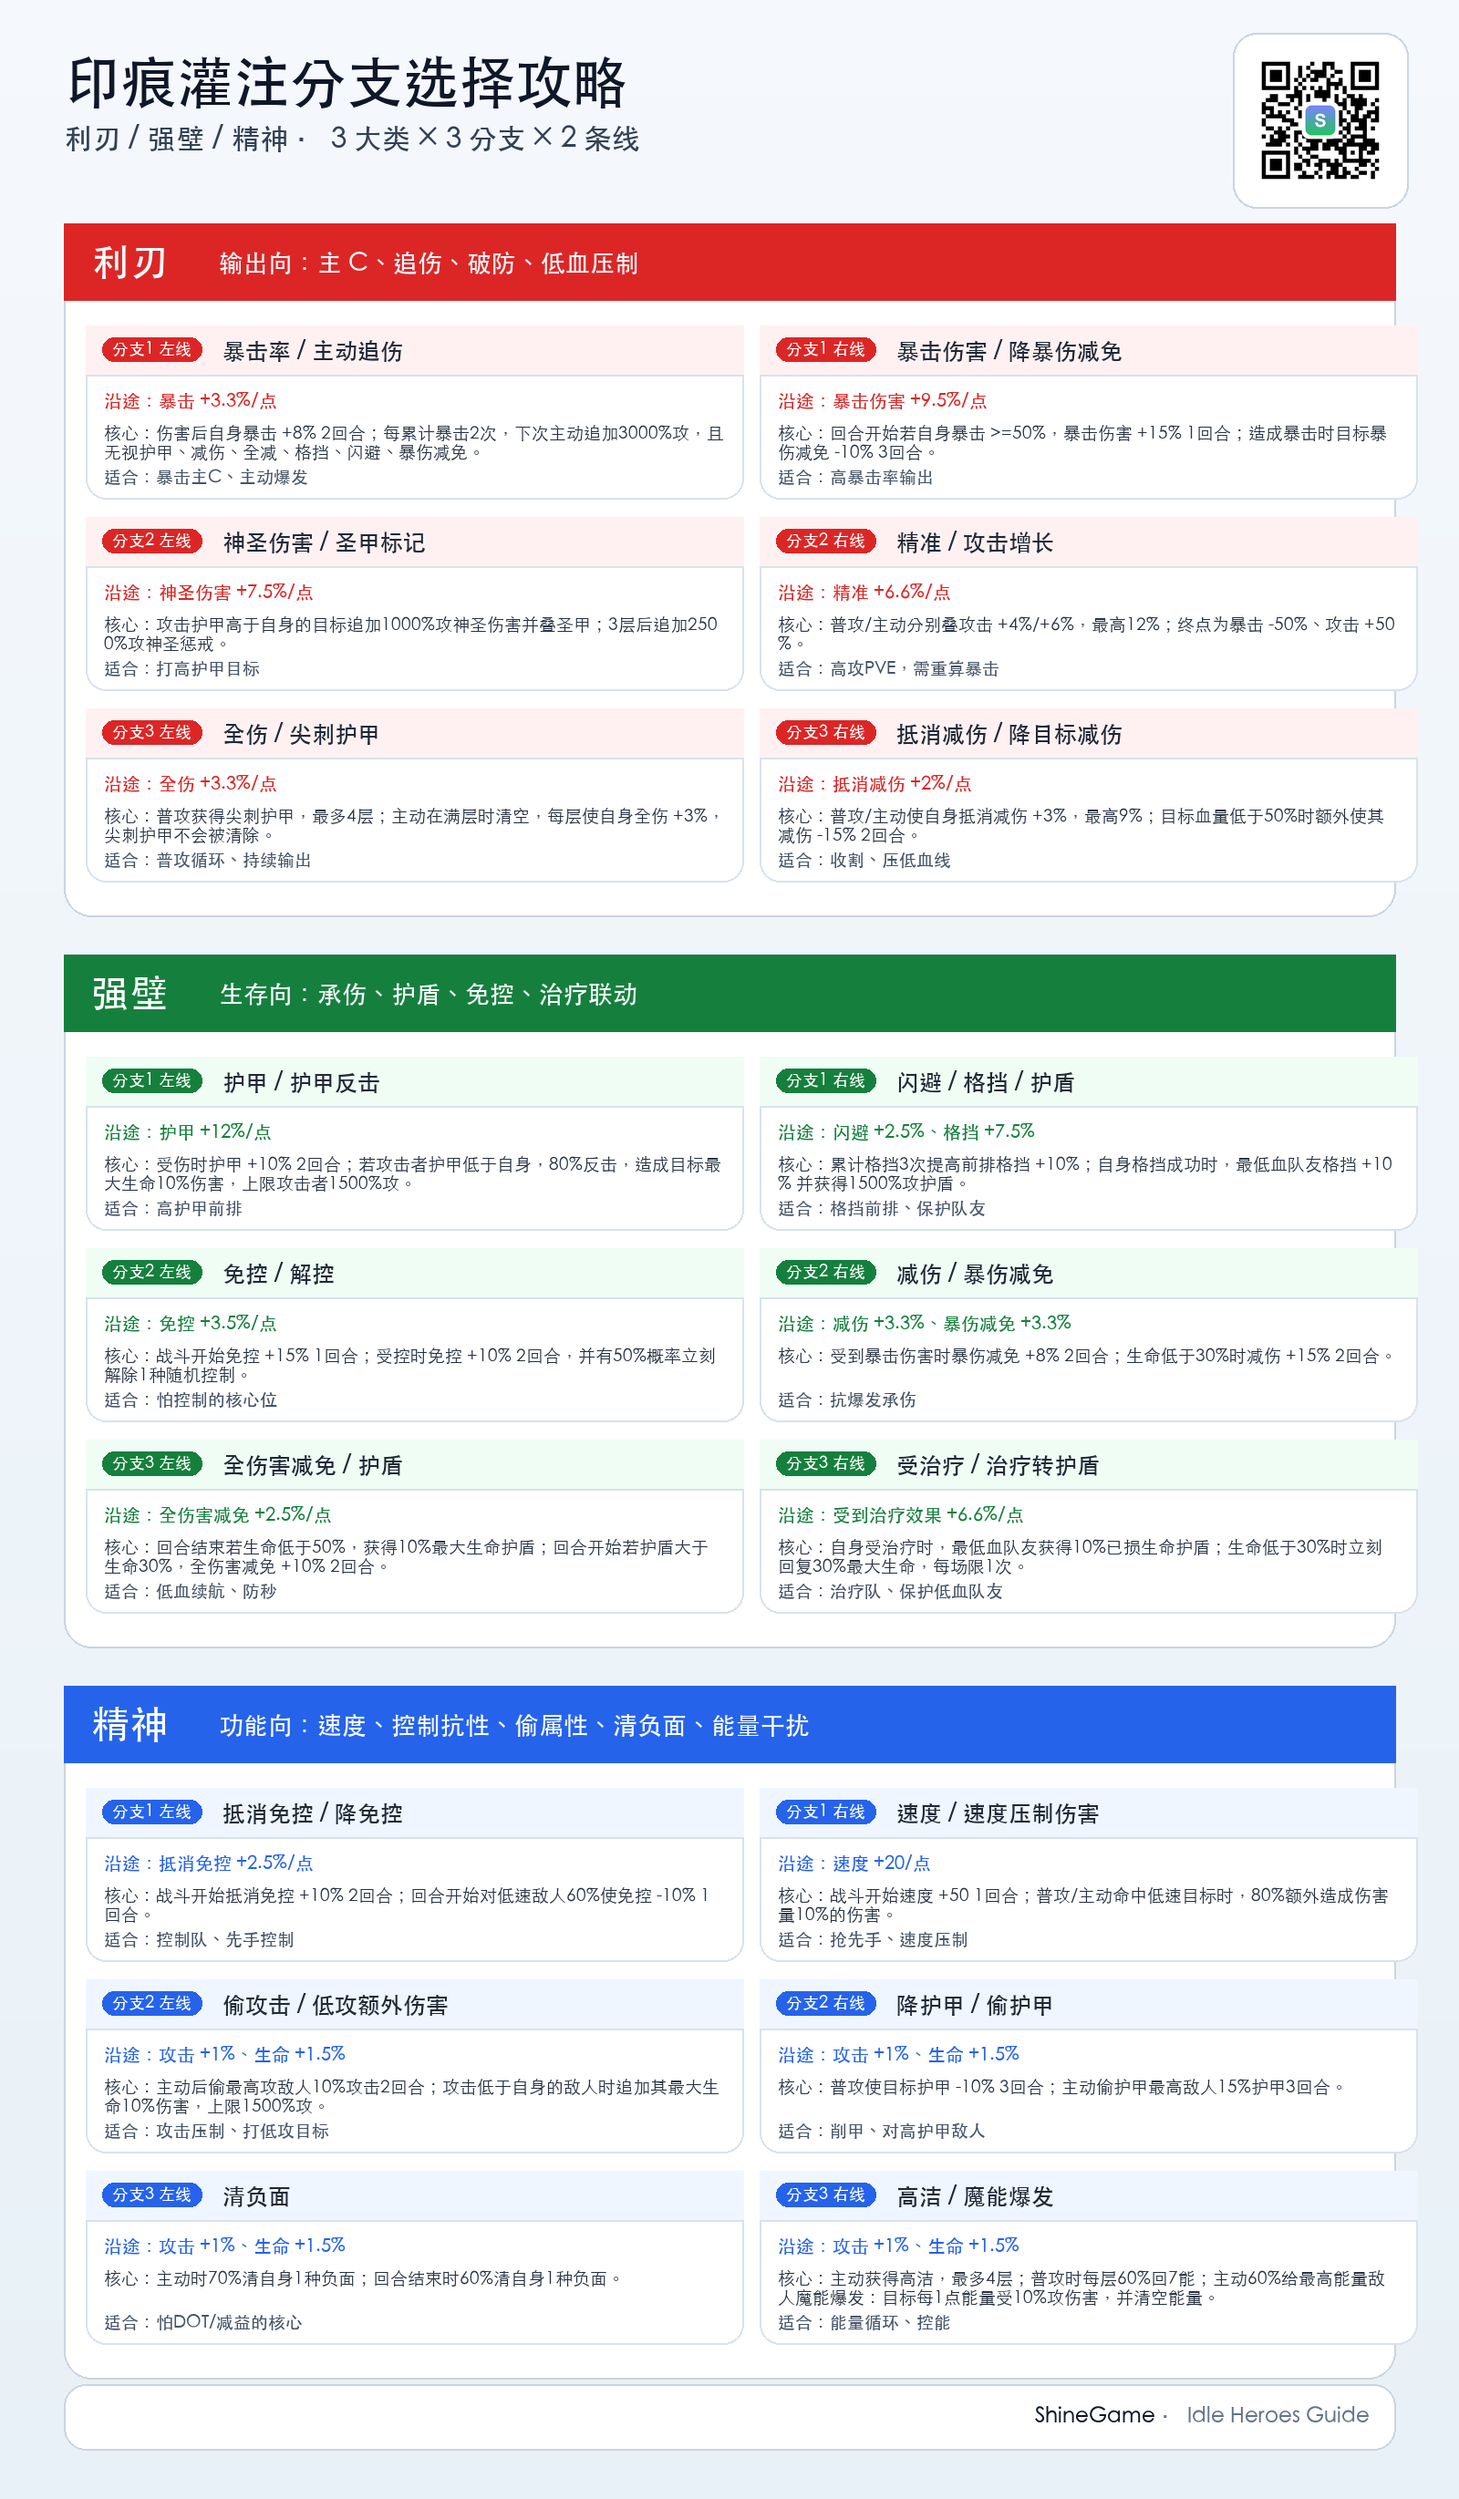
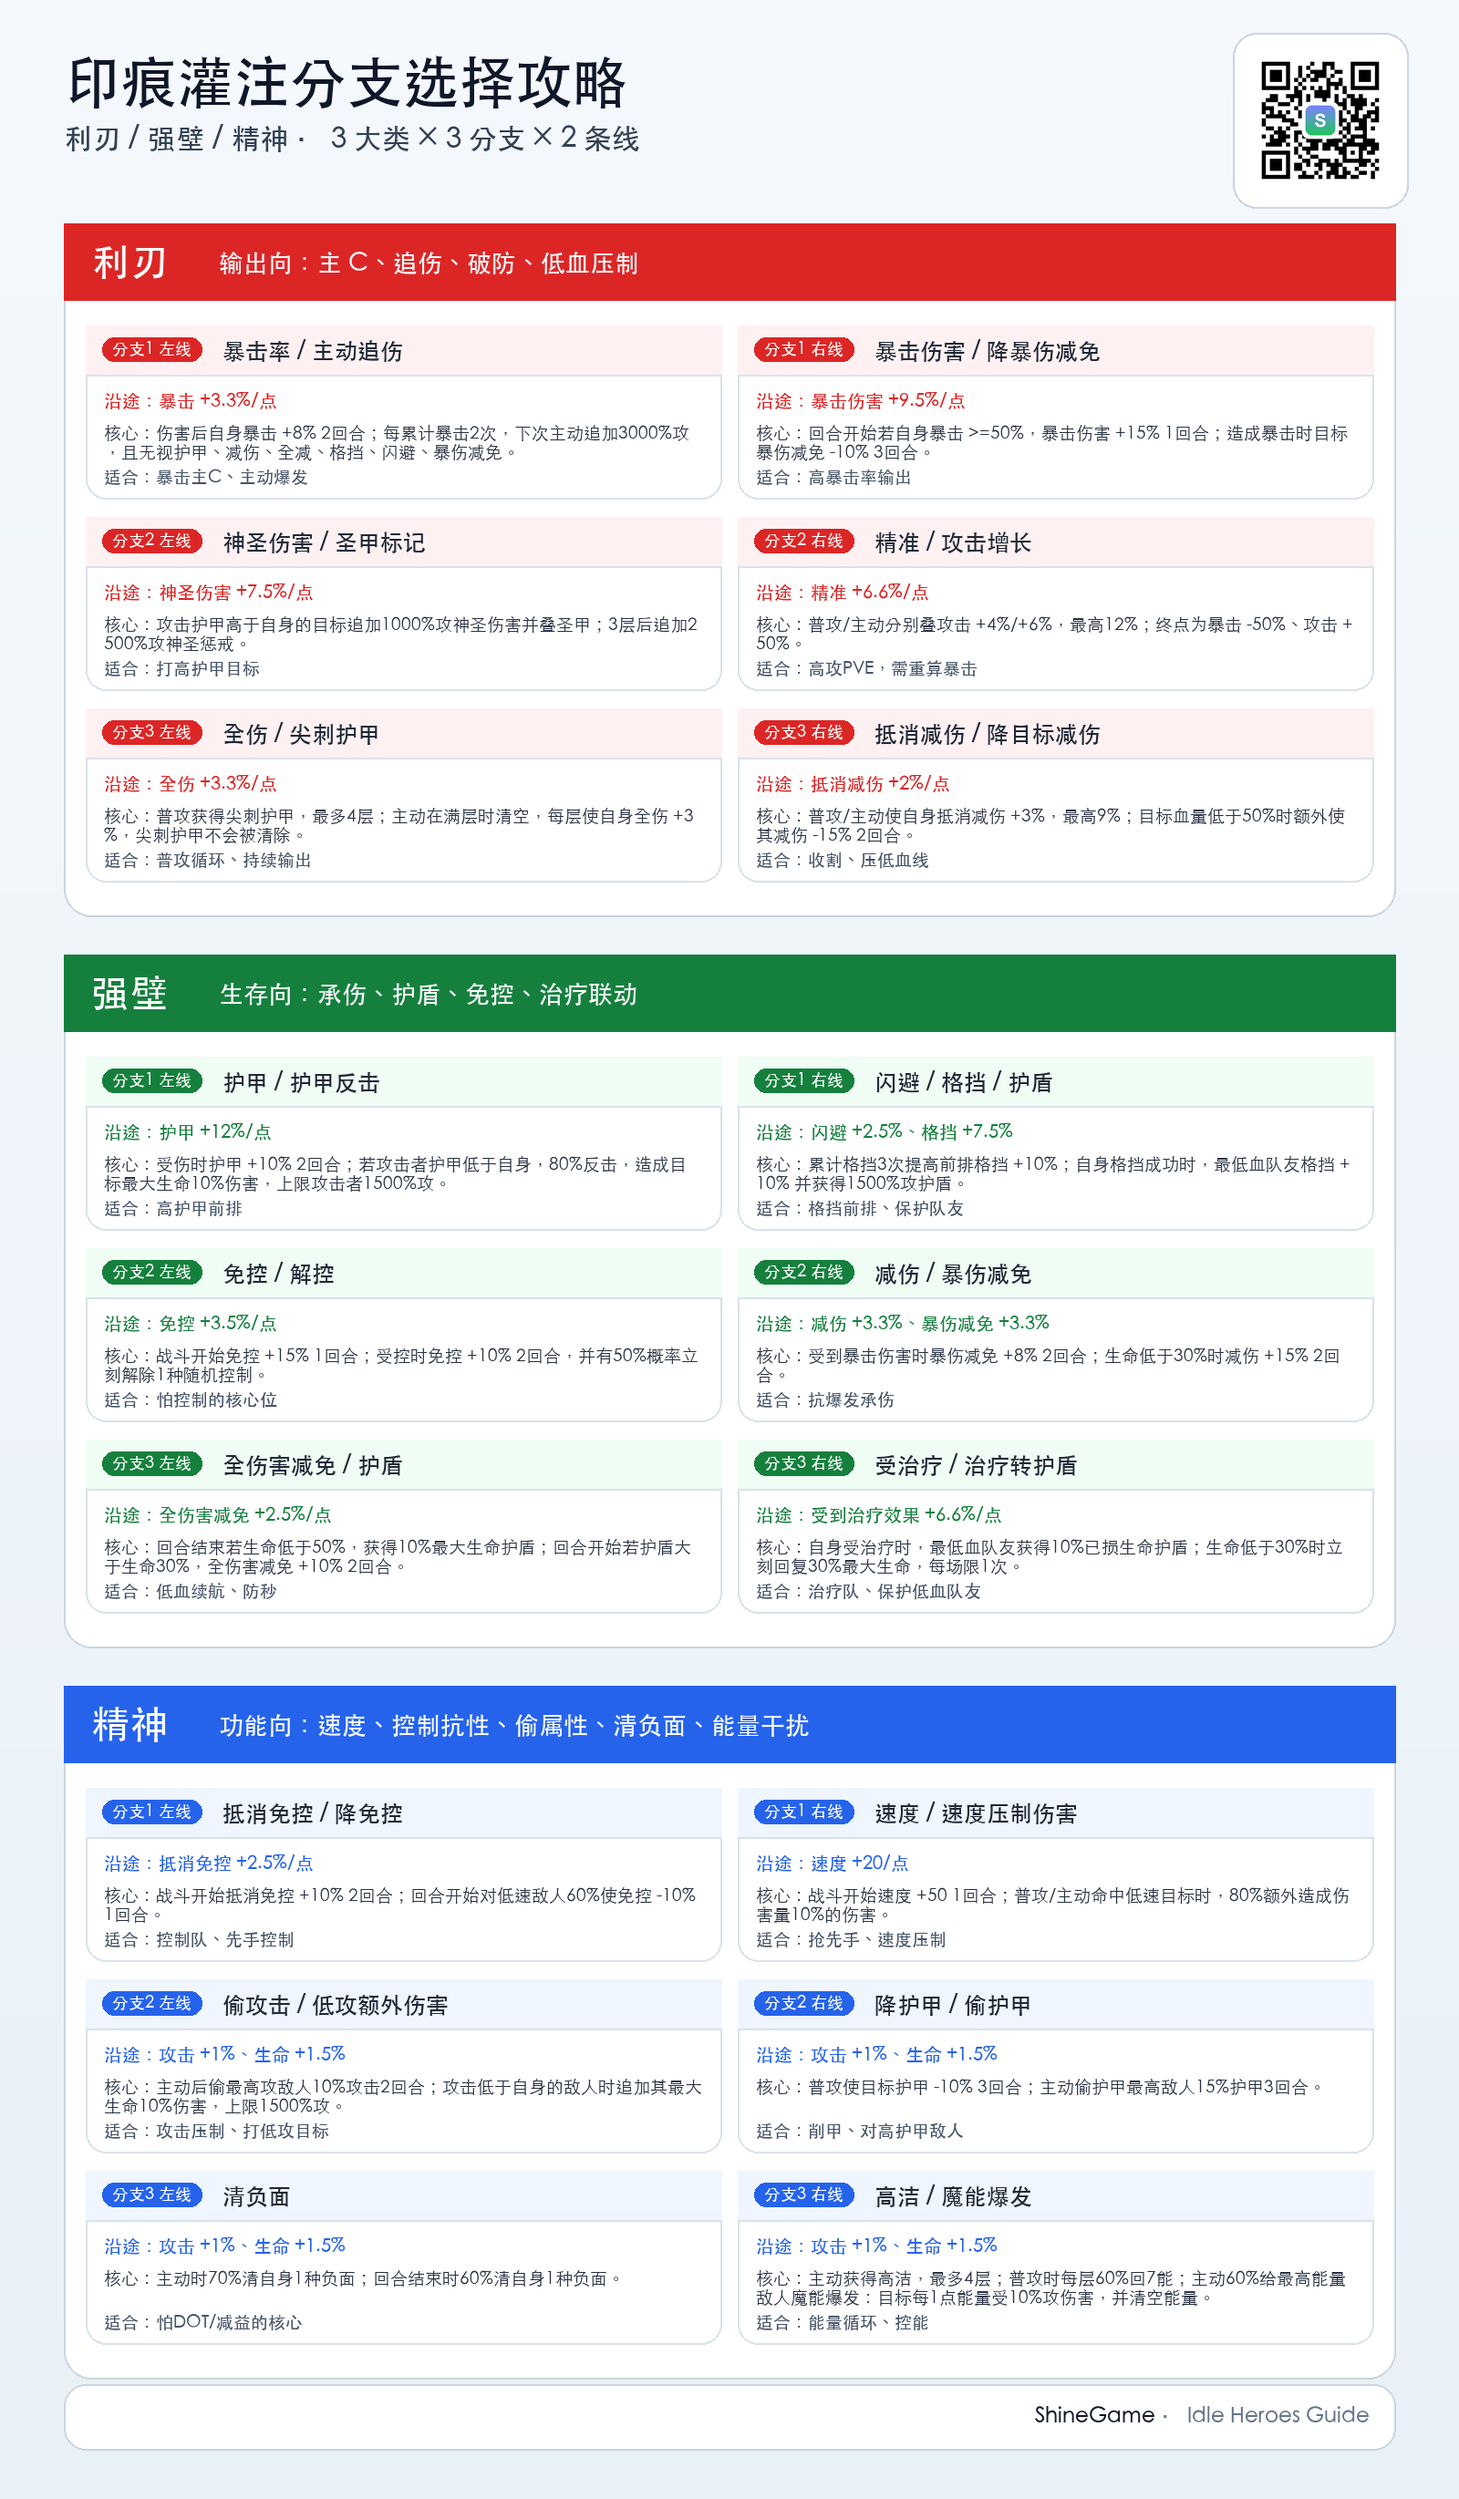
Tighten guide image layouts

diff --git a/scripts/generate-imprint-branch-guide.py b/scripts/generate-imprint-branch-guide.py
@@ -270,7 +270,8 @@ def main():
     draw.text((margin, 136), "利刃 / 强壁 / 精神 · 3 大类 × 3 分支 × 2 条线", font=font(31, True), fill="#334155")
     y = header_h
     card_gap = 18
-    card_w = (w - margin * 2 - card_gap) // 2
+    section_pad = 24
+    card_w = (w - margin * 2 - section_pad * 2 - card_gap) // 2
     card_h = 190
     for section in SECTIONS:
         accent = section["accent"]
@@ -284,7 +285,7 @@ def main():
         for idx, item in enumerate(section["items"]):
             col = idx % 2
             row = idx // 2
-            x1 = margin + 24 + col * (card_w + card_gap)
+            x1 = margin + section_pad + col * (card_w + card_gap)
             y1 = grid_y + row * (card_h + 20)
             draw_line_card(draw, (x1, y1, x1 + card_w, y1 + card_h), item, accent, soft)
 
